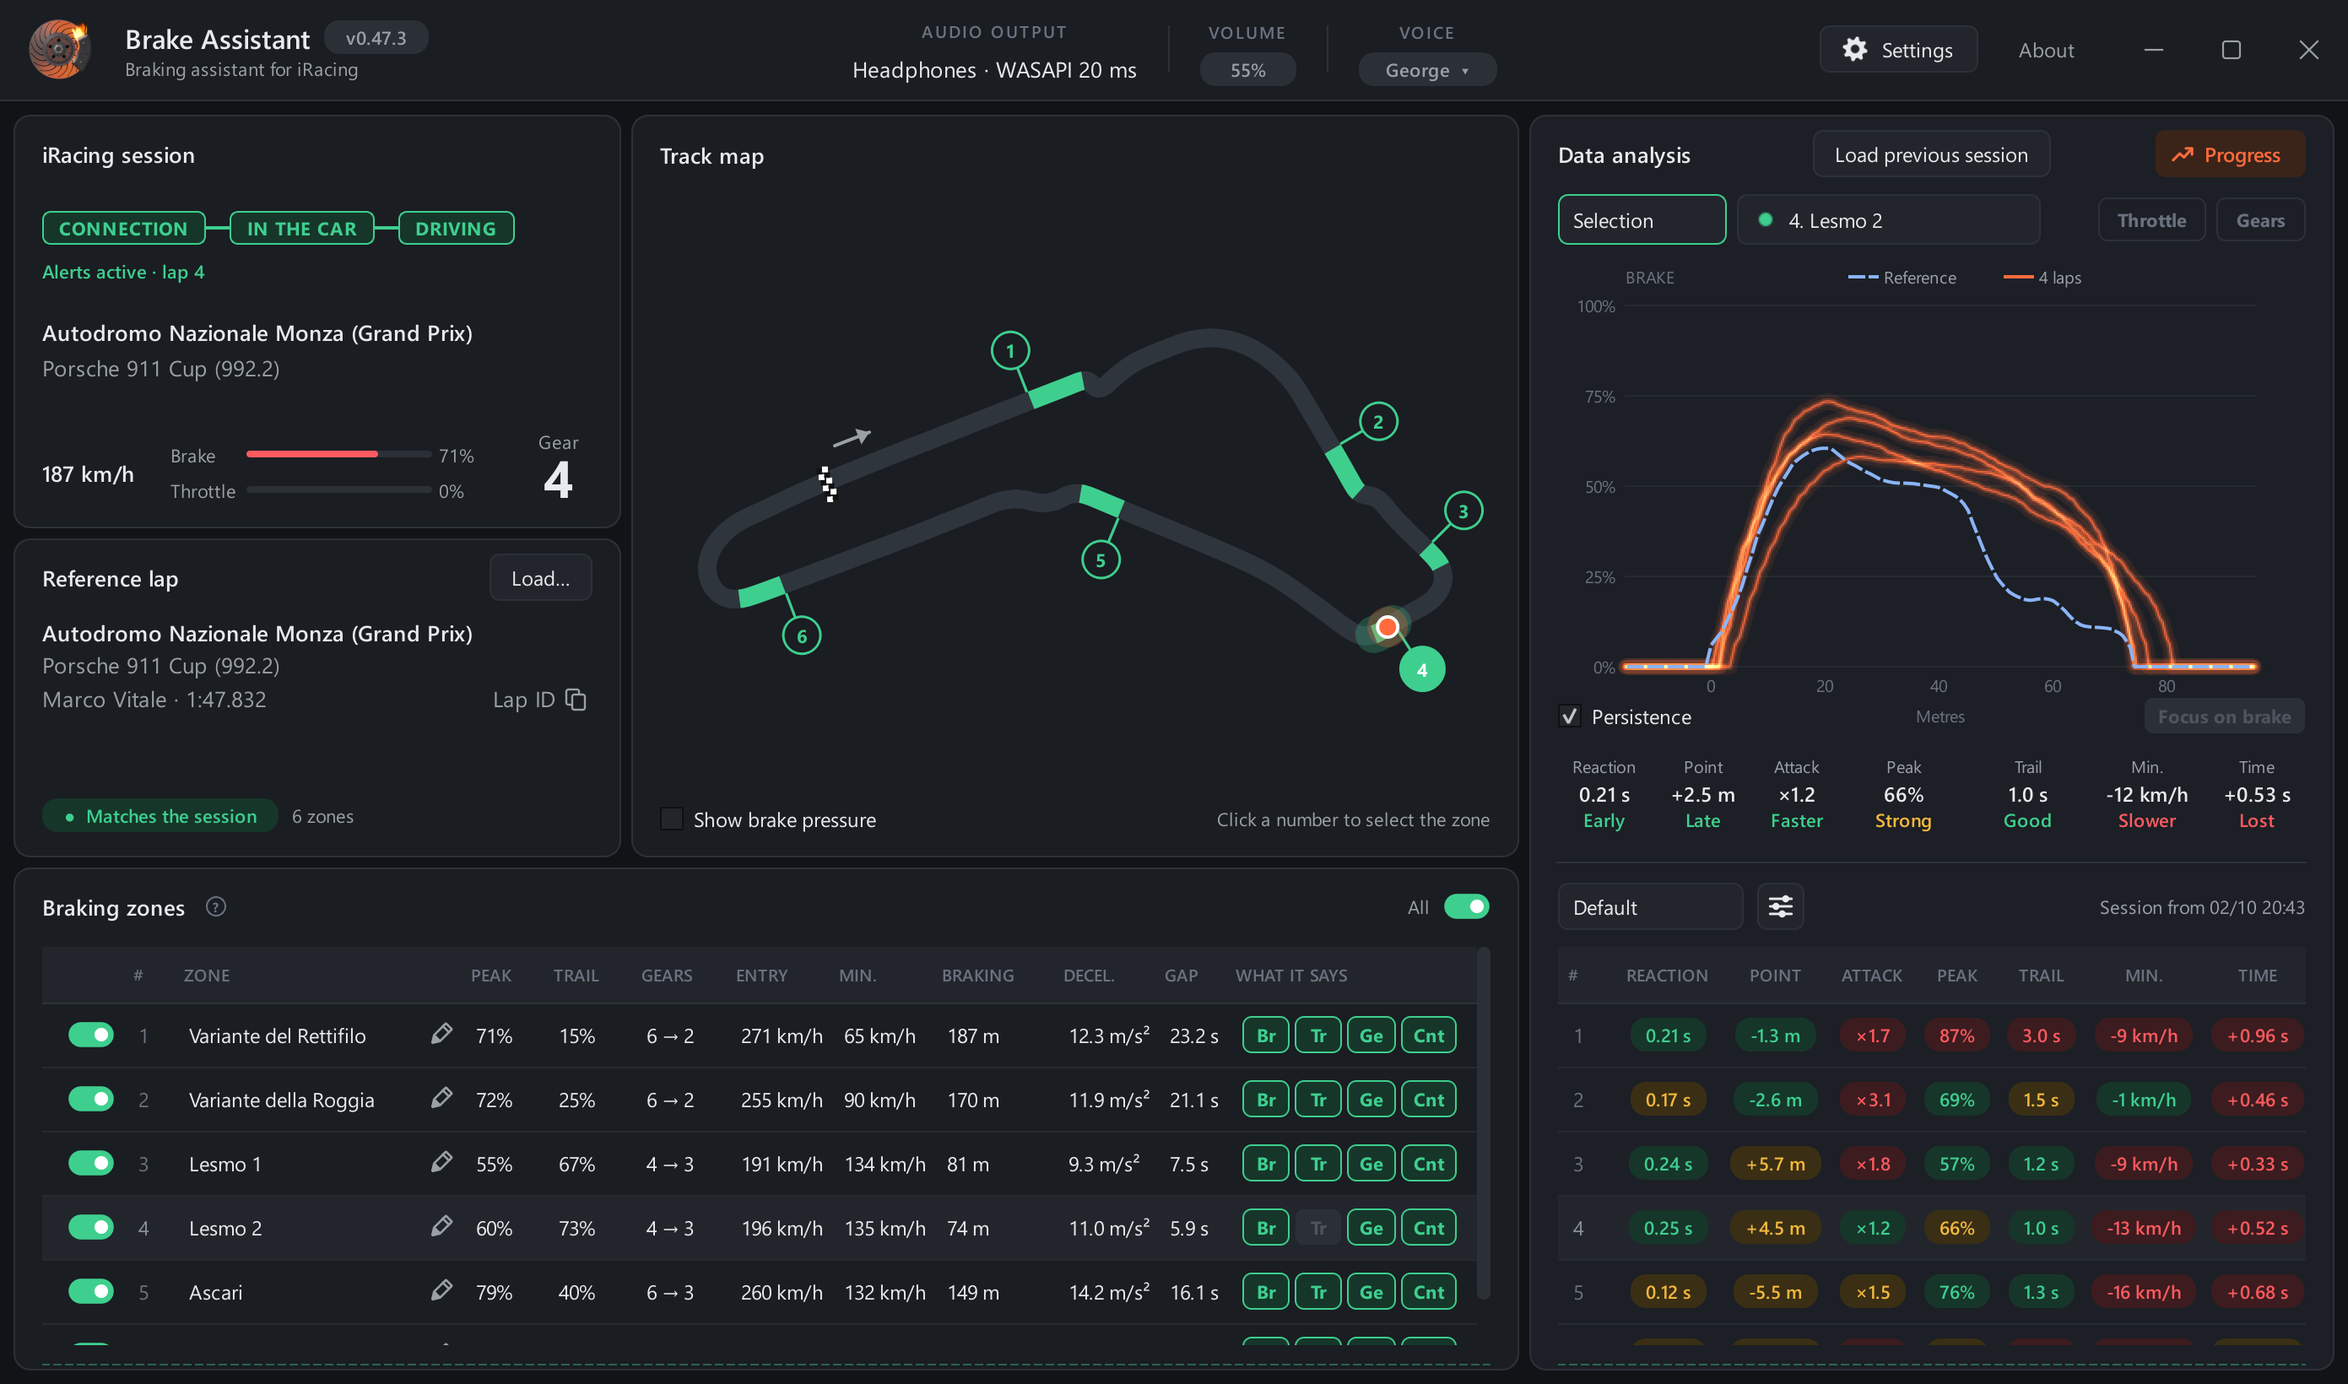
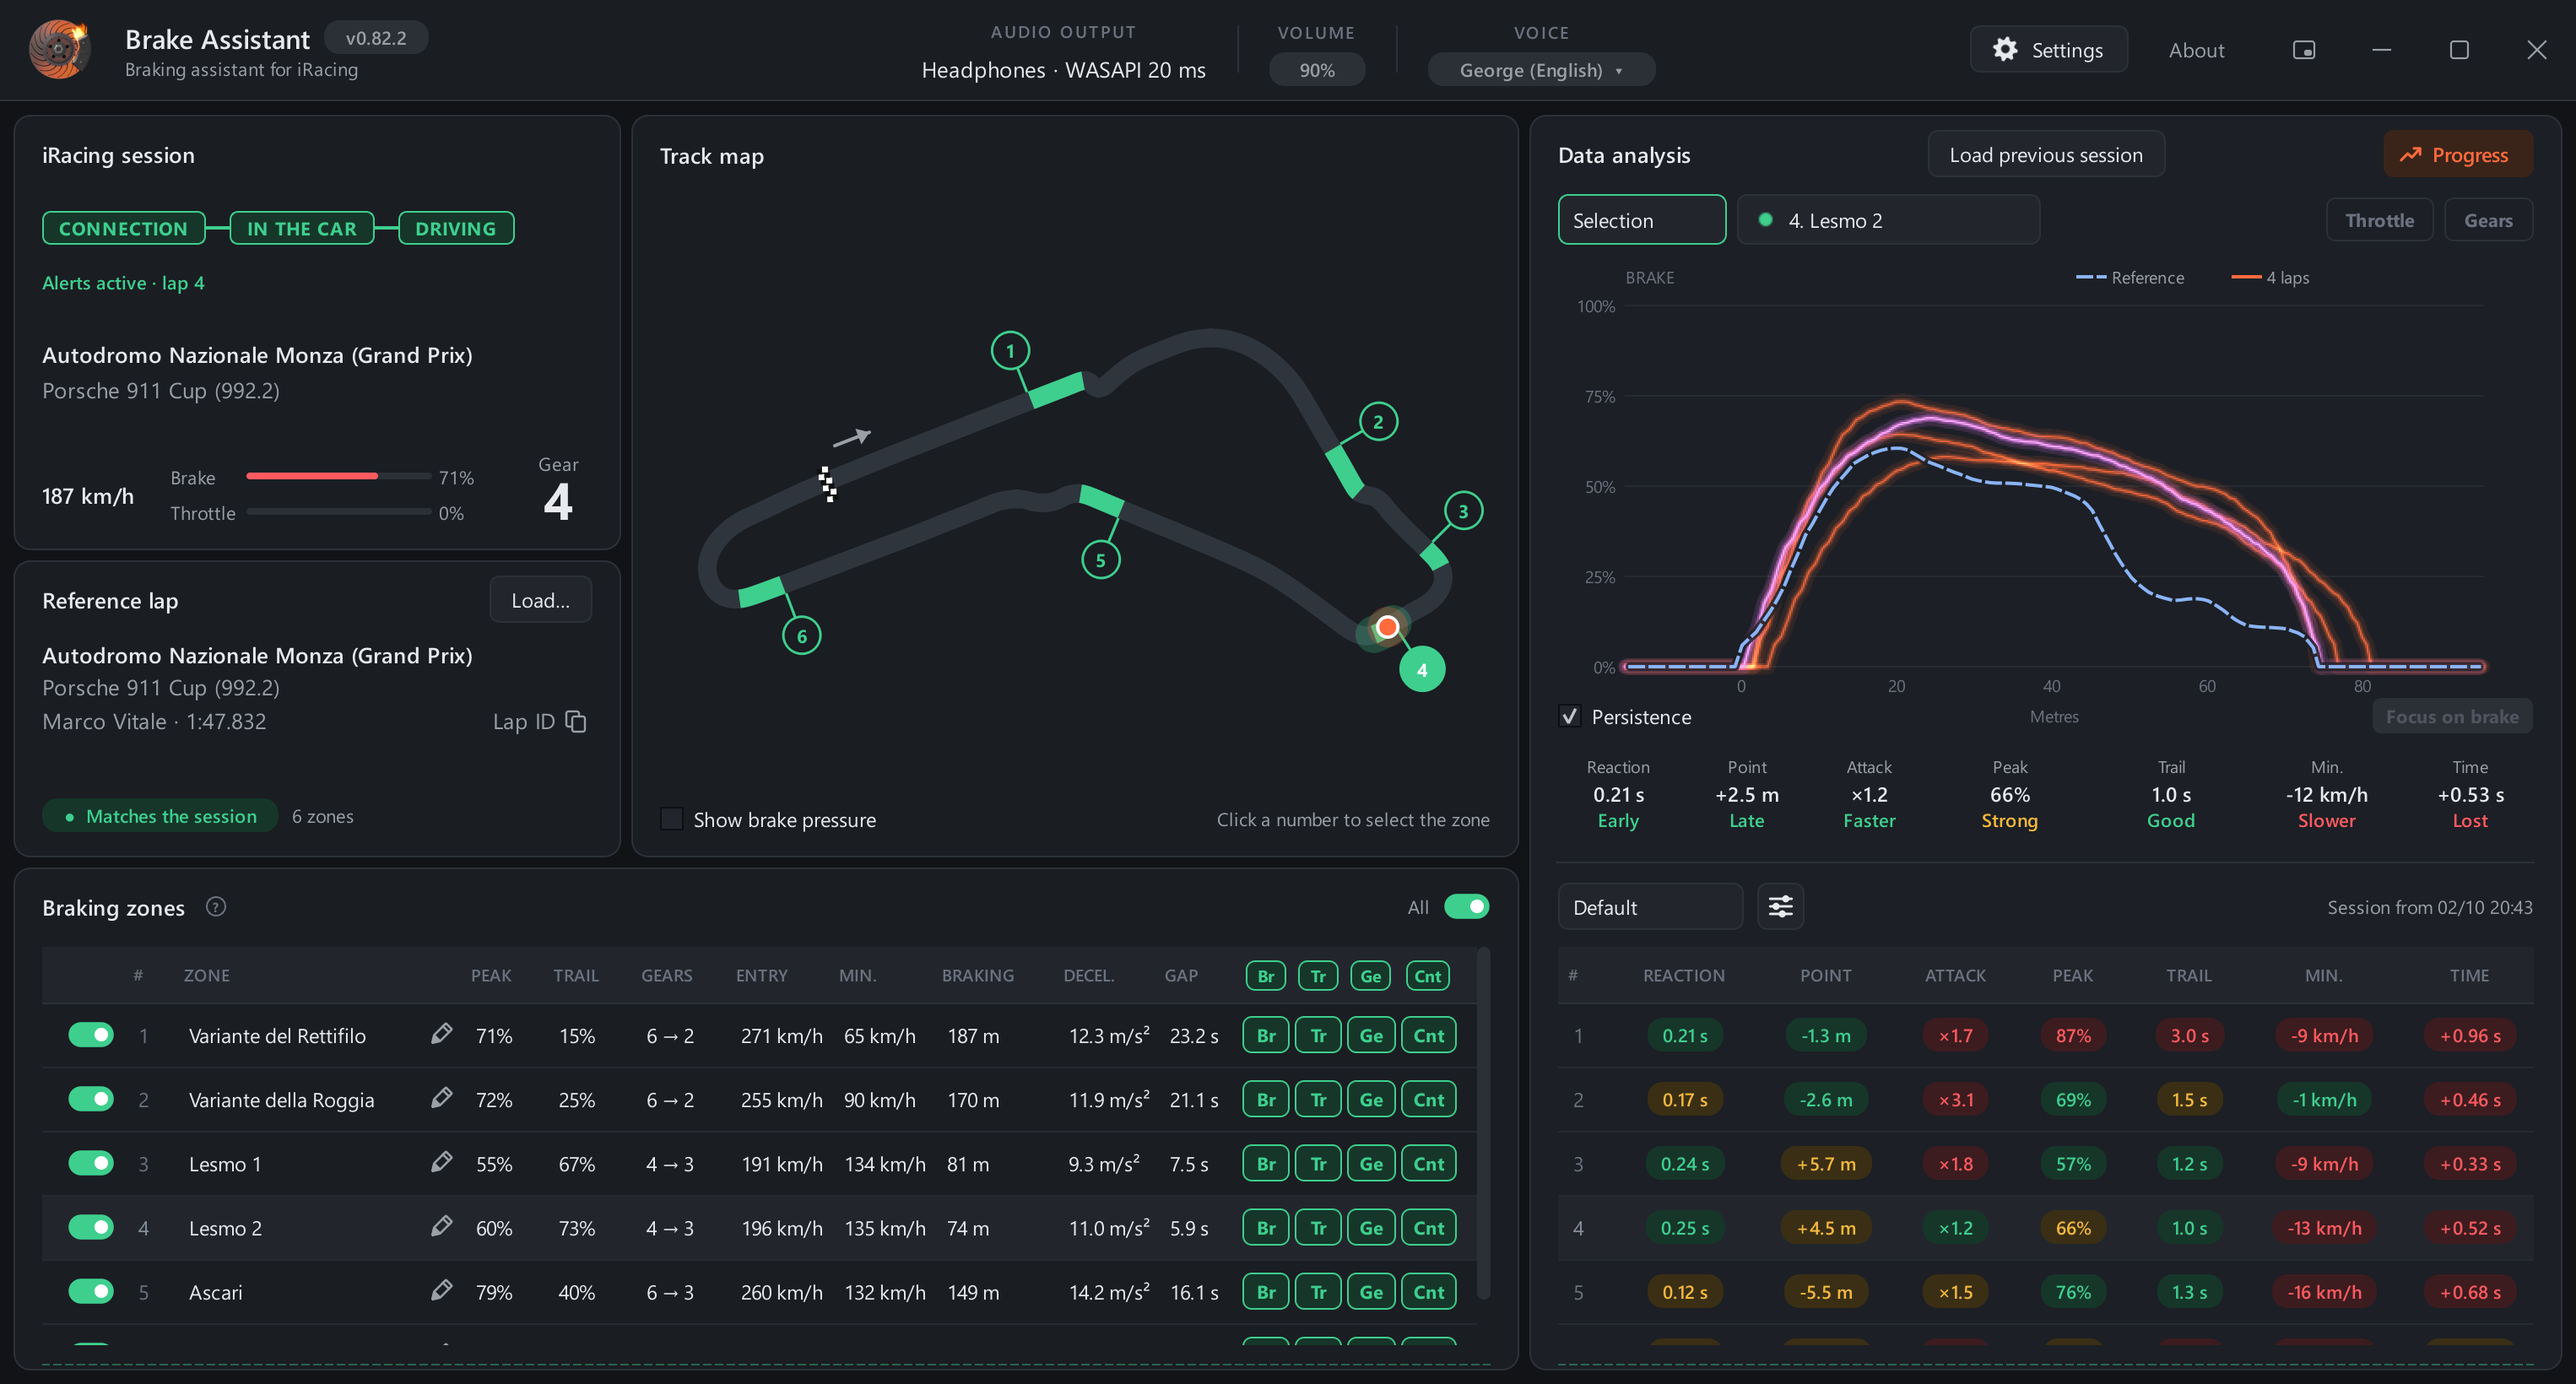
README: voices in English, Spanish and Catalan, Spanish README links to the Spanish wiki; screenshots for 0.82.2

diff --git a/README.es.md b/README.es.md
@@ -18,7 +18,7 @@ perfeccionamiento de las frenadas.
 </p>
 
 **[Descargar la última versión](https://github.com/AirmakZ/brake_assistant/releases)** ·
-**[Documentación (wiki, en inglés)](https://github.com/AirmakZ/brake_assistant/wiki)**
+**[Documentación (wiki)](https://github.com/AirmakZ/brake_assistant/wiki/Inicio)**
 
 Las betas se publican como *Pre-release* en la
 [página de versiones](https://github.com/AirmakZ/brake_assistant/releases)
@@ -60,7 +60,7 @@ y caducan a los 30 días.
 - **Atajos de volumen** en una tecla o un botón del volante, sin
   interferir con los controles de iRacing.
 - **Interfaz en español e inglés**, con tema claro y oscuro, y voces en
-  ambos idiomas.
+  español, inglés y catalán.
 
 ## Requisitos
 
@@ -107,7 +107,7 @@ guía paso a paso completa está en
 
 ## Documentación
 
-La [wiki](https://github.com/AirmakZ/brake_assistant/wiki) (en inglés)
+La [wiki](https://github.com/AirmakZ/brake_assistant/wiki/Inicio)
 explica cada parte del programa: cómo funcionan los avisos, cómo elegir una
 buena vuelta de referencia, el análisis, los ajustes, las voces
 personalizadas, dónde se guardan los datos y la solución de problemas.

diff --git a/README.md b/README.md
@@ -59,7 +59,7 @@ expire after 30 days.
 - **Volume shortcuts** on a key or a wheel button, without interfering
   with the iRacing controls.
 - **Interface in English and Spanish**, with light and dark themes, and
-  voices in both languages.
+  voices in English, Spanish and Catalan.
 
 ## Requirements
 
